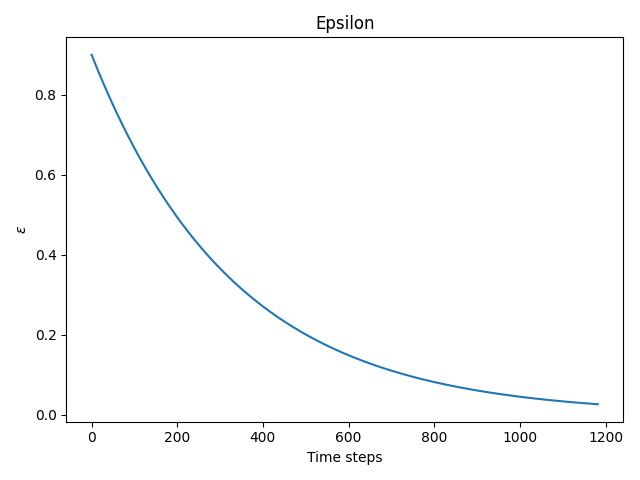
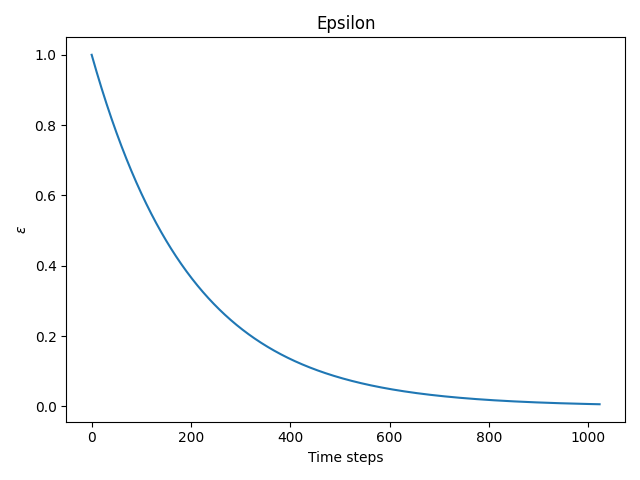
Code cleanup

diff --git a/src/critic/nn_critic.py b/src/critic/nn_critic.py
@@ -72,13 +72,10 @@ class NNCritic(Critic):
 
     def update(self, reward: float, successor_state: Tuple[int], current_state: Tuple[int]) -> None:
         """Updates eligibilities, then the value function."""
-        reward = tf.convert_to_tensor(reward, dtype=tf.float32)
-        successor_state = tf.convert_to_tensor([successor_state], dtype=tf.float32)
-        current_state = tf.convert_to_tensor([current_state], dtype=tf.float32)
 
         with tf.GradientTape(persistent=True) as tape:
-            target = reward + self._discount_factor * self.__values(successor_state)
-            prediction = tf.convert_to_tensor([self.__values(current_state)])
+            target = reward + self._discount_factor * self.__values(tf.convert_to_tensor([successor_state]))  # type: ignore
+            prediction = self.__values(tf.convert_to_tensor([current_state]))
             loss = self.__values.compiled_loss(target, prediction)
             td_error = target - prediction
 

diff --git a/src/parameters.py b/src/parameters.py
@@ -1,15 +1,17 @@
 from data_classes import Shape
 
 # General
-EPISODES = 100
+EPISODES = 150
 VISUALIZE_GAMES = True
 FRAME_DELAY = 0.15
 
 # Simulated World
-BOARD_TYPE = Shape.Diamond
-SIZE = 4
+BOARD_TYPE = Shape.Triangle
+SIZE = 5
 HOLES = set([
-    (1, 2),  # C_a
+    (2, 1),
+    # (3, 1),
+    # (3, 2),
 ])
 
 # Actor
@@ -17,13 +19,13 @@ ACTOR_LEARNING_RATE = 0.8
 ACTOR_DISCOUNT_FACTOR = 0.85
 ACTOR_TRACE_DECAY = 0.85
 
-ACTOR_EPSILON = 0.9
-ACTOR_EPSILON_DECAY = 0.997
+ACTOR_EPSILON = 1.0
+ACTOR_EPSILON_DECAY = 0.995
 
 # Critic
 CRITIC_LEARNING_RATE = 0.001
 CRITIC_DISCOUNT_FACTOR = 0.85
 CRITIC_TRACE_DECAY = 0.85
 
-USE_TABLE_CRITIC = True
-CRITIC_NN_DIMENSIONS = (16, 20, 30, 5, 1)
+USE_TABLE_CRITIC = False
+CRITIC_NN_DIMENSIONS = (15, 30, 1)

diff --git a/src/parameters/2_parameters.py b/src/parameters/2_parameters.py
@@ -1,7 +1,7 @@
 from data_classes import Shape
 
 # General
-EPISODES = 100
+EPISODES = 150
 VISUALIZE_GAMES = True
 FRAME_DELAY = 0.15
 
@@ -10,6 +10,8 @@ BOARD_TYPE = Shape.Triangle
 SIZE = 5
 HOLES = set([
     (2, 1),
+    # (3, 1),
+    # (3, 2),
 ])
 
 # Actor
@@ -17,8 +19,8 @@ ACTOR_LEARNING_RATE = 0.8
 ACTOR_DISCOUNT_FACTOR = 0.85
 ACTOR_TRACE_DECAY = 0.85
 
-ACTOR_EPSILON = 0.9
-ACTOR_EPSILON_DECAY = 0.997
+ACTOR_EPSILON = 1.0
+ACTOR_EPSILON_DECAY = 0.995
 
 # Critic
 CRITIC_LEARNING_RATE = 0.001
@@ -26,4 +28,4 @@ CRITIC_DISCOUNT_FACTOR = 0.85
 CRITIC_TRACE_DECAY = 0.85
 
 USE_TABLE_CRITIC = False
-CRITIC_NN_DIMENSIONS = (15, 20, 30, 5, 1)
+CRITIC_NN_DIMENSIONS = (15, 30, 1)
